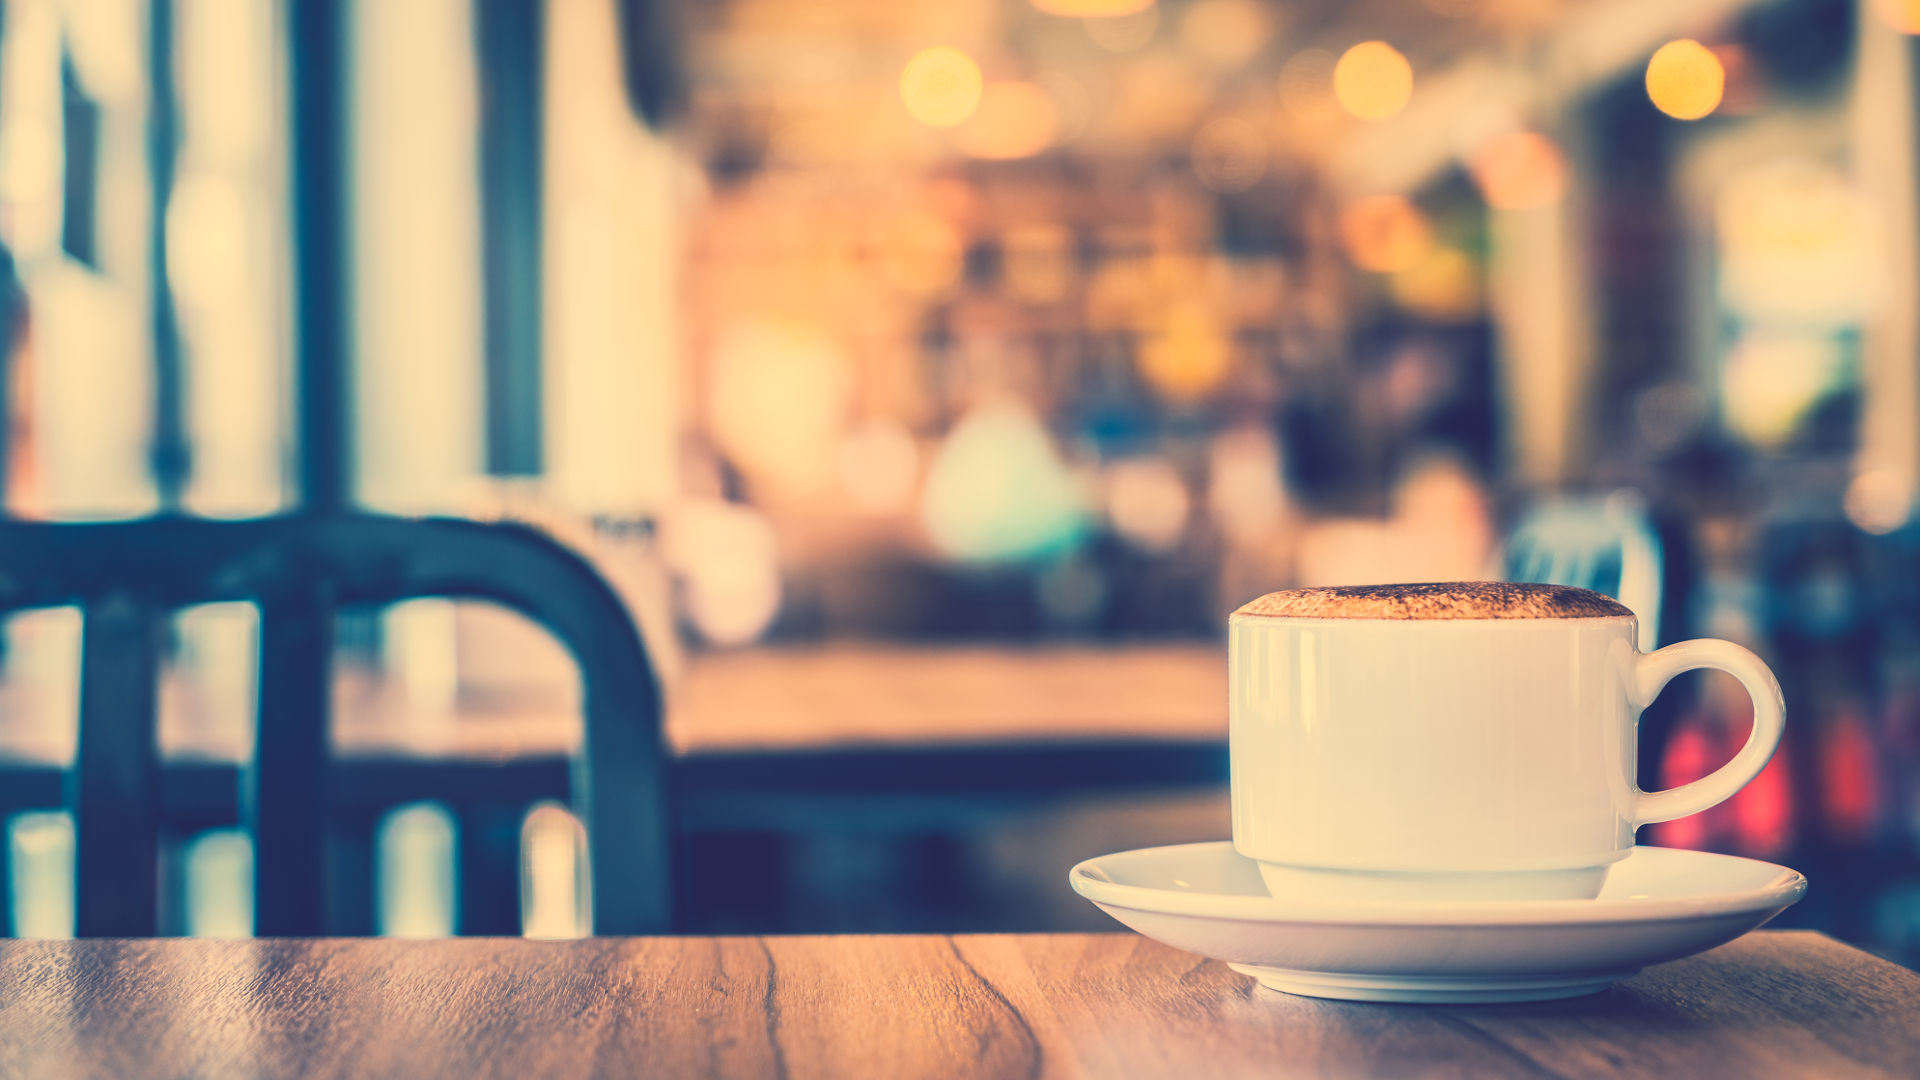
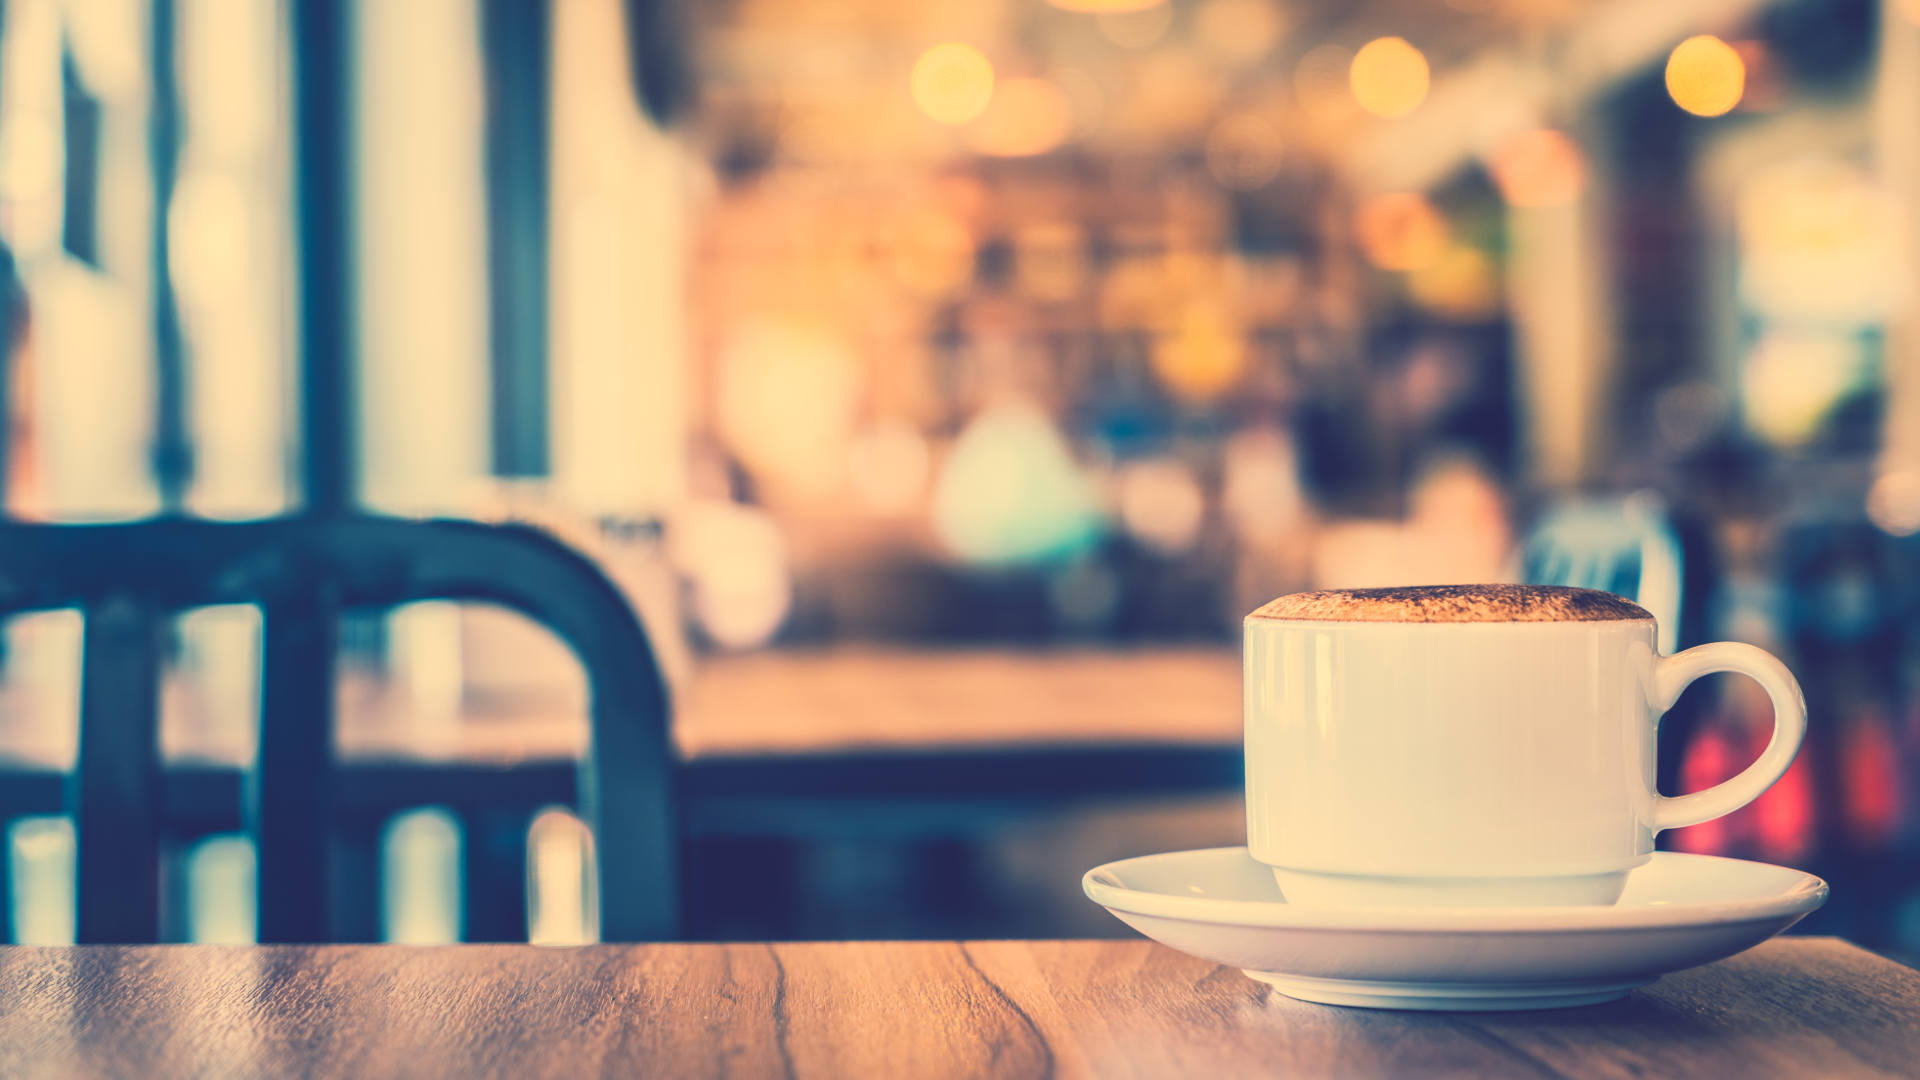
UI updates (background images added with fade effect); re-org folder structure; starting to implement bootsrap

diff --git a/css/style.css b/css/style.css
@@ -9,50 +9,53 @@
 }*/
 
 body {
-    /*background-color: #66462C;*/
     background-color: black;
     height: 100%;
-    /*background: url("../img/landing2_1920.jpg") no-repeat left fixed;*/
-    /*background: url("../img/landing2_1920.jpg") no-repeat center center fixed;*/
     background-attachment: fixed;
     background-position: center center;
     background-repeat: no-repeat;
-    background-image: url("../img/landing2x1920.jpg");
+    background-image: url("../img/landing1920.jpg");
     background-size: cover;
-    /*background-color: cadetblue;*/
 }
 
-.landing-bg {
+
+/*.landing-bg {
     background: url("../img/landing2x1920.jpg") no-repeat center center fixed;
     background-size: cover;
-}
+}*/
 
 .books-bg {
-    background: url("../img/books4x1920.jpg") no-repeat center center fixed;
+    /*background: url("../img/books3x1920.jpg") no-repeat center center fixed;*/
+    background: url("../img/books5x1920.jpg") no-repeat center center fixed;
     background-size: cover;
-    z-index: 1;
+    /*z-index: 1;*/
+    -webkit-transition: all 0.9s ease-in 0.15s;
+    -moz-transition: all 0.9s ease-in 0.15s;
+    transition: all 0.9s ease-in 0.15s;
 }
 
 .coffee-bg {
     background: url("../img/coffee1920.jpg") no-repeat center center fixed;
     background-size: cover;
-    z-index: 2;
+    /*z-index: 2;*/
+    -webkit-transition: all 0.9s ease-in 0.2s;
+    -moz-transition: all 0.9s ease-in 0.2s;
+    transition: all 0.9s ease-in 0.2s;
 }
 
 .final-bg {
     background: url("../img/final1920.jpg") no-repeat center center fixed;
     background-size: cover;
-    z-index: 3;
+    /*z-index: 3;*/
+    -webkit-transition: all 0.9s ease-in 0.2s;
+    -moz-transition: all 0.9s ease-in 0.2s;
+    transition: all 0.9s ease-in 0.2s;
 }
 
 header {
     /*margin-top: 0;*/
     width: 100%;
-    /*background-color: #BD986F;*/
-    /*opacity: .3;
-    background-color: black;*/
-    background: rgba(0, 0, 0, 0.4);
-    /*color: #6BACB3;*/
+    background: rgba(0, 0, 0, 0.6);
     color: #4195b7;
     font-weight: bold;
     margin-left: auto;
@@ -60,7 +63,11 @@ header {
 }
 
 a:link, a:active, a:visited {
-    color: purple;
+    color: maroon;
+}
+
+#extLinkImg {
+    width: 12px;
 }
 
 a:hover {
@@ -68,13 +75,9 @@ a:hover {
 }
 
 .title {
-    width: 35%;
+    width: 100%;
     margin-top: 0;
-    /*margin-bottom: 10px;*/
     padding-top: 20px;
-    /*padding-left: 20px;*/
-    margin-left: auto;
-    margin-right: auto;
     /*border: 1px solid white;*/
     font-family: 'Dancing Script', cursive;
     font-size: 110px;
@@ -85,8 +88,7 @@ a:hover {
 .subtitle {
     /*padding-top: 5px;*/
     text-align: center;
-    width: 30%;
-    /*padding-left: 20px;*/
+    width: 100%;
     padding-bottom: 10px;
     margin-left: auto;
     margin-right: auto;
@@ -119,11 +121,6 @@ h1 {
 }
 
 
-/*.in-active {
-    color: black;
-}*/
-
-
 /*main {
     background: url(landing1920.jpg) no-repeat left fixed;
     background-size: cover;
@@ -149,7 +146,7 @@ h1 {
     margin-right: auto;
     /*height: 100%;*/
     /*background-color: black;*/
-    background: rgba(0, 0, 0, 0.4);
+    background: rgba(0, 0, 0, 0.6);
     /*opacity: .3;*/
     /*padding-top: 50px;*/
     padding-bottom: 50px;
@@ -212,7 +209,6 @@ h1 {
 #coffee-shop-input {
     display: none;
     width: 45%;
-    /*height: 28px;*/
     font-size: 18px;
     margin-top: 10px;
 }
@@ -235,7 +231,7 @@ h1 {
     height: 400px;
     width: 352px;
     text-align: center;
-    /*this fixes vertical alingment bug in MS Edge*/
+    /*vertical-align fixes alingment bug in MS Edge*/
     vertical-align: top;
 }
 
@@ -252,7 +248,8 @@ h1 {
 
 #coffee-shop-reviews {
     /*margin-top: 40px;*/
-    width: 350px;
+    /*width: 350px;*/
+    width: 100%;
     height: 421px;
     padding: 7px;
     /*display: inline-block;*/
@@ -263,20 +260,24 @@ h1 {
 }
 
 .selected-results {
+    width: 90%;
     margin-bottom: 5px;
-    /*margin-left: auto;
-    margin-right: auto;*/
+    margin-left: auto;
+    margin-right: auto;
 }
 
 .selected-book {
     height: 100px;
     padding: 10px;
     float: left;
-    /*background-color: #6BACB3;*/
+    background-color: black;
     border-radius: 8px;
     font-weight: bold;
     margin-left: auto;
     /*margin-right: auto;*/
+    -webkit-transition: background-color 0.3s ease 0s;
+    -moz-transition: background-color 0.3s ease 0s;
+    transition: background-color 0.3s ease 0s;
 }
 
 .selected-book-name {
@@ -288,11 +289,14 @@ h1 {
     margin-left: 5px;
     display: inline-block;
     padding: 10px;
-    /*background-color: #6BACB3;*/
+    background-color: black;
     border-radius: 8px;
     font-weight: bold;
-    /*margin-left: auto;*/
+    margin-left: 80px;
     margin-right: auto;
+    -webkit-transition: background-color 0.3s ease 0s;
+    -moz-transition: background-color 0.3s ease 0s;
+    transition: background-color 0.3s ease 0s;
 }
 
 .selected-coffee-shop-name {
@@ -300,7 +304,7 @@ h1 {
 }
 
 .selected-book:hover, .selected-coffee-shop:hover {
-    opacity: 0.9;
+    background-color: #202020;
 }
 
 .selected-coffee-shop-vicinity {
@@ -308,7 +312,8 @@ h1 {
 }
 
 #text-directions-panel {
-    width: 350px;
+    /*width: 350px;*/
+    width: 24%;
     height: 400px;
     padding: 7px;
     display: inline-block;
@@ -320,7 +325,8 @@ h1 {
 
 .address-input-panel {
     display: inline-block;
-    width: 250px;
+    /*width: 250px;*/
+    width: 24%;
     height: 400px;
     padding: 7px;
     border: 1px solid black;
@@ -358,8 +364,4 @@ button#finalBtn {
 .coffee-review-text {
     text-align: left;
     padding-left: 4px;
-}
-
-#extLinkImg {
-    width: 12px;
 }

diff --git a/index.html b/index.html
@@ -17,17 +17,14 @@
     <header>
         <h1 class="title">Books 'n Brew</h1>
         <p class="subtitle">Bringing together two things you love- books and coffee.</p>
-
-        <!-- user instructions -->
-
     </header>
 
     <main>
 
         <!-- landing page -->
-
-        <div class="landing-page">
+        <div class="container-fluid landing-page">
             <ol class="app-state">
+                <!-- user instructions -->
                 <li class="step-1">find an eBook to download.</li>
                 <li class="step-2">find a coffee shop to read at.</li>
                 <li class="step-3">purchase and get directions.</li>
@@ -39,7 +36,7 @@
         </div>
 
         <!-- book search page -->
-        <div class="find-book-page hide">
+        <div class="container-fluid find-book-page hide">
             <form id="book-search-form">
                 <label id="book-input-label" for="book-input">What would you like to read today?</label>
                 <br />
@@ -56,8 +53,7 @@
         </div>
 
         <!-- coffee shop search page -->
-        <div class="find-coffee-shop-page hide-map">
-
+        <div class="container-fluid find-coffee-shop-page hide-map">
 
             <div class="hide">
                 <!-- wrapped in a hidden div to prevent it from appearing on the page before the map renders -->
@@ -82,8 +78,7 @@
         </div>
 
         <!-- final page -->
-        <div class="final-page hide-map">
-
+        <div class="container-fluid final-page hide-map">
 
             <div class="selected-results">
                 <div class="selected-book">

diff --git a/js/index.js b/js/index.js
@@ -47,11 +47,12 @@ function headerState(count) {
 function goToBooks() {
     $('.landing-page').addClass('hide');
     $('.find-book-page').removeClass('hide');
-    // $('body').addClass('books-bg');
-    $('body')
-        .css('background-image', 'url("C:/GitProj/book-and-coffee-shop-connector/img/landing2x1920.jpg")')
-        .fadeOut('slow')
-        .css('background-image', 'url("C:/GitProj/book-and-coffee-shop-connector/img/books4x1920.jpg")')
-        .fadeIn('slow');
+    // $('body').animate({ "background-image": "url('C:/GitProj/book-and-coffee-shop-connector/img/books4x1920.jpg')" }, 5000);
+    $('body').addClass('books-bg');
+    // $('body')
+    //     .css('background-image', '')
+    //     .fadeOut('fast')
+    //     .css('background-image', 'url("C:/GitProj/book-and-coffee-shop-connector/img/books4x1920.jpg")')
+    //     .fadeIn('slow');
     headerState(1);
 }

diff --git a/js/bookResults.js b/js/bookResults.js
@@ -40,11 +40,7 @@ function displayData(data) {
                     // localStorage.state = JSON.stringify(state);
                     $('.find-book-page').addClass('hide');
                     $('.find-coffee-shop-page').removeClass('hide-map');
-                    $('body')
-                        .css('background-image', 'url("C:/GitProj/book-and-coffee-shop-connector/img/books4x1920.jpg")')
-                        .fadeOut('slow')
-                        .css('background-image', 'url("C:/GitProj/book-and-coffee-shop-connector/img/coffee1920.jpg")')
-                        .fadeIn('slow');
+                    $('body').addClass('coffee-bg');
                     headerState(2);
                     getLoc();
                     console.log("state.selectedBook", state.selectedBook);

diff --git a/js/coffeeShops.js b/js/coffeeShops.js
@@ -188,11 +188,7 @@ $('#coffeeShopBtn').click(function (event) {
     console.log("selected coffee shop", state.selectedCoffeeShop);
     $('.find-coffee-shop-page').addClass('hide');
     $('.final-page').removeClass('hide-map');
-    $('body')
-        .css('background-image', 'url("C:/GitProj/book-and-coffee-shop-connector/img/coffee1920.jpg")')
-        .fadeOut('slow')
-        .css('background-image', 'url("C:/GitProj/book-and-coffee-shop-connector/img/final1920.jpg")')
-        .fadeIn('slow');
+    $('body').addClass('final-bg');
     headerState(3);
     initFinalMap();
 });
